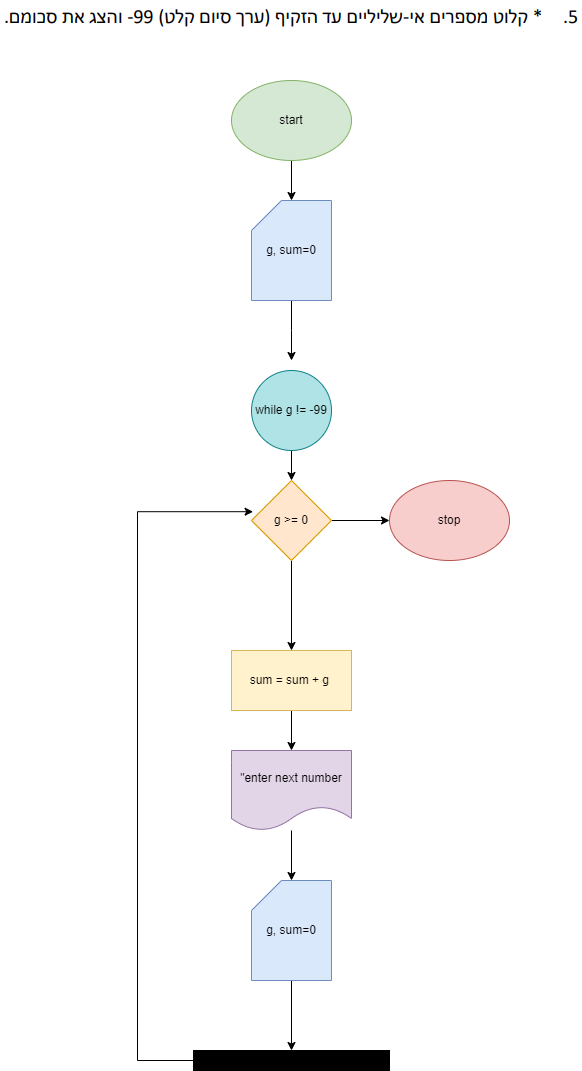
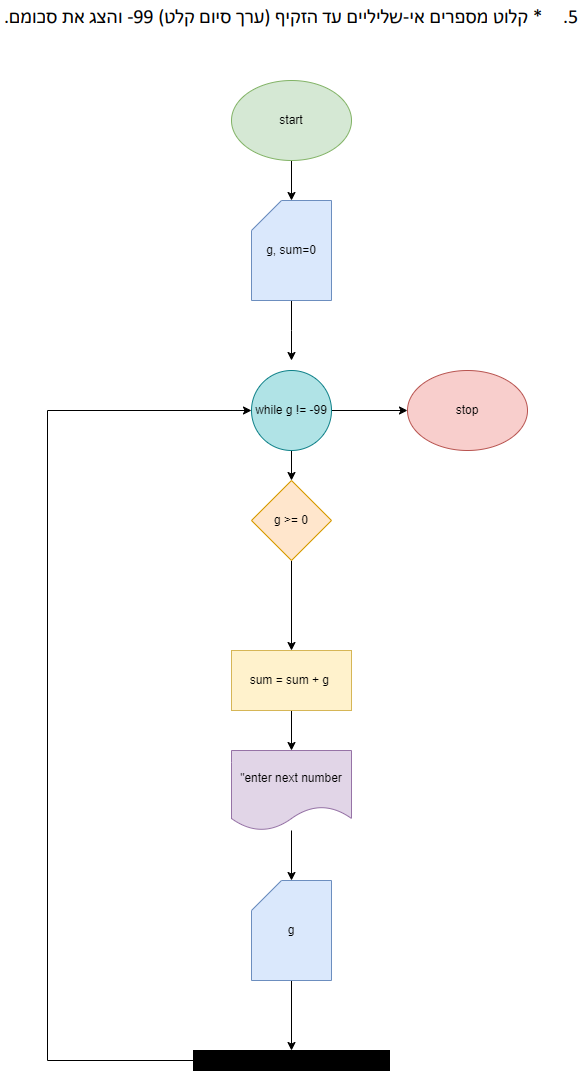
update

Changed region(s): [[0.6495, 0.3389, 0.9278, 0.5238], [0.4639, 0.8627, 0.5258, 0.8936], [0.4021, 0.4622, 0.433, 0.493]]

diff --git a/index.html b/index.html
@@ -7,26 +7,32 @@
 </head>
 <body>
     <h1>This is the best home work ever made!</h1>
+    <h2>page 18 ex.5 </h2>
     <div>
         <img src="18 ex 5.png" alt="">
     </div>
     <hr>
+    <h2>page 20 ex.4 option A </h2>
     <div>
         <img src="20 ex 4.drawio.png" alt="">
     </div>
     <hr>
+    <h2>page 20 ex.4 option B </h2>
     <div>
         <img src="20 ex 4 b.png" alt="">
     </div>
     <hr>
+    <h2>page 27 ex.2</h2>
     <div>
         <img src="27 ex 2.png" alt="">
     </div>
     <hr>
+    <h2>page 27 ex.3</h2>
     <div>
         <img src="27 ex 3.png" alt="">
     </div>
     <hr>
+    <h2>page 27 ex.5 BONUS!!</h2>
     <div>
         <img src="27 ex 5.png" alt="">
     </div>

diff --git a/index.js b/index.js
@@ -77,7 +77,7 @@ var sum = 0
 
 while (g != -99) {
 
-    if (g >= 0) {
+    if (g > 0) {
 
         sum = sum + g
         
